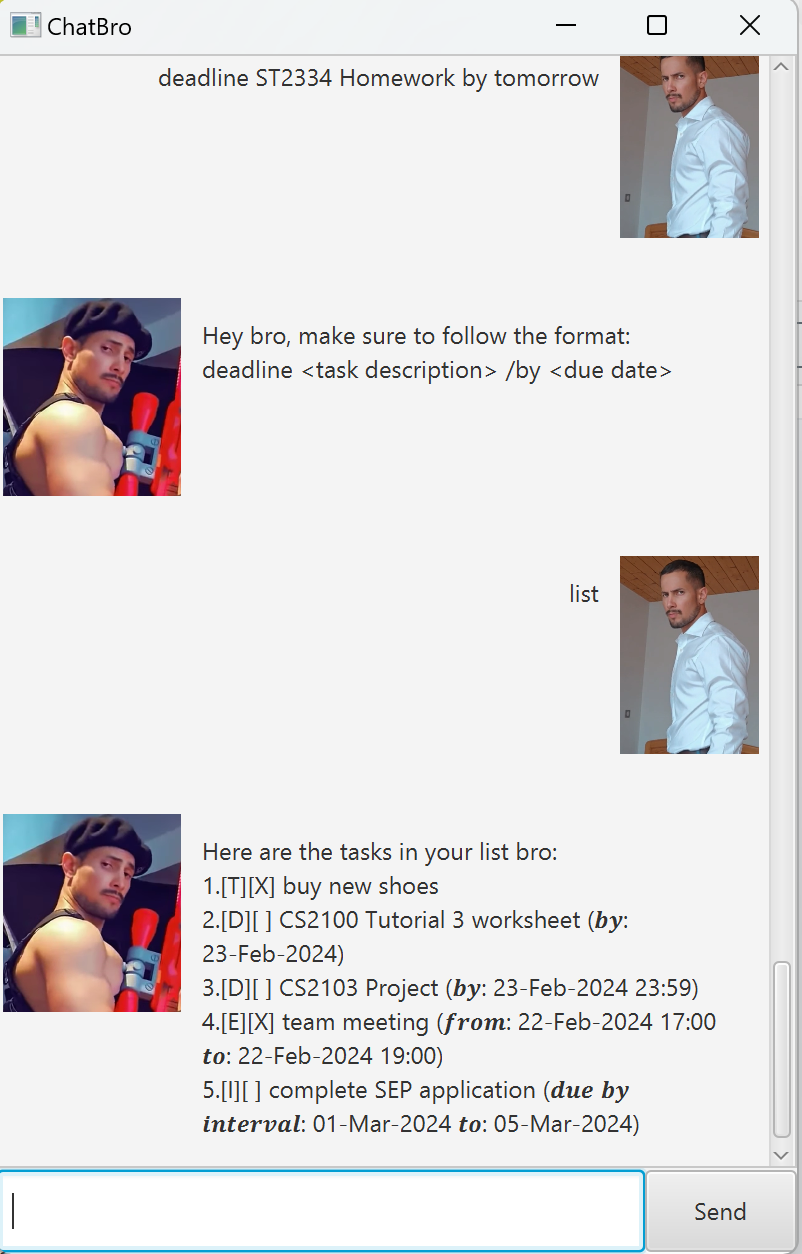
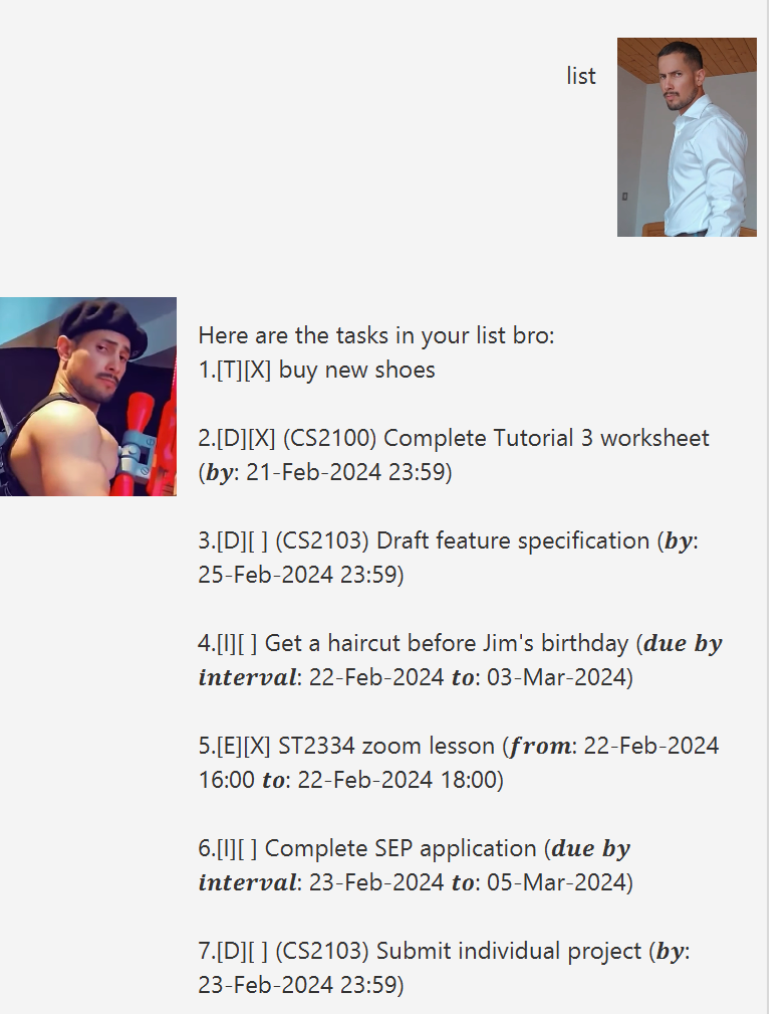
Update User Guide
Fix .jar compatability issue

Improve list and find commands for readability

Changed region(s): [[0.0, 0.0, 0.9987, 1.0], [0.0, 0.0, 0.156, 0.0306]]

diff --git a/src/main/java/chatbro/Finder.java b/src/main/java/chatbro/Finder.java
@@ -19,7 +19,7 @@ public class Finder {
                     sb.append("Here are the matching tasks in your list bro:" + "\n");
                 }
                 count++;
-                sb.append(count + ". " + TaskManager.getTask(i).toString() + "\n");
+                sb.append(count + ". " + TaskManager.getTask(i).toString() + "\n\n");
             }
         }
         if (count == 0) {

diff --git a/src/main/java/chatbro/Ui.java b/src/main/java/chatbro/Ui.java
@@ -65,7 +65,7 @@ public class Ui {
             if (TaskManager.getList().get(i) == null) {
                 break;
             }
-            sb.append(i + "." + TaskManager.getList().get(i).toString() + "\n");
+            sb.append(i + "." + TaskManager.getList().get(i).toString() + "\n\n");
         }
         return sb.toString();
     }

diff --git a/docs/README.md b/docs/README.md
@@ -1,30 +1,139 @@
-# Duke User Guide
+# ChatBro User Guide
+Tired of always forgetting to complete your tasks or deadlines? Or perhaps forgetting about and missing classes or events? ChatBro's got you, bro!
 
-// Update the title above to match the actual product name
+ChatBro is a simple to use task manager application that allows you to add tasks to a task list, mark (or unmark) these tasks as 'done', delete tasks or search for tasks. ChatBro remembers your task list across all sessions.
 
-// Product screenshot goes here
+Let ChatBro remember and handle your tasks for you!
+<p align="center">
+<img width="304" height="460" src="https://cdn.discordapp.com/attachments/523125126540165121/1210528706335084605/image.png?ex=65eae3b6&is=65d86eb6&hm=d29262b5c72377baa671bf2f791b7e6ece1815c068594a06b177e4f318e8f103&">
+</p>
 
-// Product intro goes here
+## Features:
 
-## Adding deadlines
+Click on the underlined features to jump to the respective section!
 
-// Describe the action and its outcome.
+1. [Adding Tasks](#exit): ( [To-Do](#todo)  |  [Deadline](#deadline)  |  [Interval Deadline](#interval)  |  [Event](#event))
+2. [Viewing your task list](#view-list)
+3. [Marking / Unmarking tasks as "done"](#mark)
+4. [Deleting tasks](#delete)
+5. [Searching for tasks](#search)
+6. [Exiting the program and saving tasks](#exit)
 
-// Give examples of usage
+## 1. Adding tasks
 
-Example: `keyword (optional arguments)`
+ChatBro can't help you keep track of your tasks if he doesn't know what tasks you have. You'll have to add tasks to your task list to make use of the other features!
+This section details the types of tasks you can add to your list, as well as how to do so.
 
-// A description of the expected outcome goes here
+Each task type is represented differently in your task list, but all of their representations will start with:
+`[Task type][Status] <task description>`, where "status" is `[ ]` for incomplete tasks or `[X]` for complete tasks.
 
-```
-expected output
-```
+Deadline, Interval deadline and Event tasks will require a `<date>` specifier in your input.
+For all task types, the `<date>` specifier must follow the format:
+<p align="center"> **dd-MM-yyyy HHmm** </p>
 
-## Feature ABC
+    (dd: day, MM: month, yyyy: year, HH: hours, mm: minutes)
+    HHmm is optional.
 
-// Feature details
+More details will be given in the subsections below!
 
+### 1.1 Adding To-Do task <a id="todo"></a>
 
-## Feature XYZ
+A To-Do task is a task without any associated deadline, starting time or ending time. It only has a task description.
+A todo task is represented in your list as `[T][Status] <task description>`.
 
-// Feature details
+**Command format:** `todo <task description>`
+**Example usage:** `todo buy new shoes`
+
+### 1.2 Adding Deadline task <a id="deadline"></a>
+
+A Deadline task is a task with an associated deadline. It has a `<date>` specifier `<due date>`.
+
+**Command format:** `deadline <task description> /by <due date>`
+**Example usage:** `deadline Complete Math assignment /by 10-04-2024`
+
+### 1.3 Adding Interval Deadline task <a id="interval"></a>
+
+Have a task that needs to be completed within a given time period?
+If you have a task where the deadline is an interval of time, instead of an instance of time, you may create an Interval Deadline task! It has `<date>` specifiers `<interval start date>` and `<interval end date>`.
+
+**Command format:** `interval <task description> /from <interval start date> /to <interval end date>`
+
+**Example usage:** `interval Complete IPPT /from 23-02-2024 /to 31-03-2024`
+
+### 1.4 Adding Event task <a id="event"></a>
+An event task with a starting time and ending time. Examples include meetings, classes, dinner reservations at a restaurant, etc. It has `<date>` specifiers `<start time>` and `<end time>`.
+
+**Command format:** `event <task description> /from <start time> /to <end time>`
+**Example usage:** `event Group project meeting /from 25-02-2024 1300 /to 25-02-2024 1530`
+
+## 2. Viewing your task list <a id="view-list"></a>
+
+To view your list of tasks, use the 'list' command.
+
+**Command format:** `list`
+
+ChatBro replies with a list of your tasks, including task type, status, description, and any other task information:
+<p align="center">
+<img width="304" height="460" src="https://cdn.discordapp.com/attachments/523125126540165121/1210528706335084605/image.png?ex=65eae3b6&is=65d86eb6&hm=d29262b5c72377baa671bf2f791b7e6ece1815c068594a06b177e4f318e8f103&">
+</p>
+
+## 3. Marking and unmarking tasks as "done" <a id="mark"></a>
+
+Now that we know how to view our task list, we can mark some tasks as "done"! First, you'll need to know the task number of the task to be marked, which you can find using the 'list' command. Then, type `mark <task number>` to mark the task. To unmark the task, type `unmark <task number>`. This will be reflected in the task list.
+
+For example, if the task "buy new shoes" is done but the task "(CS2100) Complete Tutorial 3 worksheet" is not done yet:
+
+<p align="center">
+<img width="350" height="223" src="https://cdn.discordapp.com/attachments/523125126540165121/1210558551366303795/image.png?ex=65eaff81&is=65d88a81&hm=6d04c475ac38d2649d046fdc37969d63f9eba37f1768a8eb5aeddb4d3231997f&">
+</p>
+
+**Command format:** `mark <task number>` or  `unmark <task number>`
+**Example usage:** `mark 3` or  `unmark 1`
+
+## 4. Deleting tasks <a id="delete"></a>
+
+You may delete tasks as well, if you've made an error in some of the task details, or if the task is completed already and you no longer need to keep a record of it. To do this, you will need the task number of the task to be deleted, which you can find using the 'list' command.
+
+**Command format:** `delete <task number>`
+**Example usage:** `delete 2`
+
+## 5. Searching for tasks <a id="search"></a>
+
+As you start adding tasks to your list, you may find that the 'list' command will result in ChatBro giving you a reply that is too long to effectively find tasks that you need to complete.
+
+In this case, you may use the 'find' command to search for tasks! ChatBro will fetch all tasks with the ***task description*** containing the given keyword and replies with a list of these tasks.
+
+**Command format:** `find <keyword>`
+**Example usage:** `find Timothy`
+
+Note that this command performs a *partial matching* of the keyword:
+(e.g. `find elo` will fetch a task with description "`Hello`", since 'Hello' contains the substring 'elo')
+
+To illustrate how 'find' can help filter the list effectively, assume we are finding all tasks related to the course "CS2103".
+
+Using 'list':
+<p align="center">
+<img width="270" height="380" src="https://cdn.discordapp.com/attachments/523125126540165121/1210543083066884186/image.png?ex=65eaf119&is=65d87c19&hm=f79bef19645c94e4df35d80f0d277abcab75856a350fa470567a6109c5cd196f&">
+</p>
+
+Using 'find':
+<p align="center">
+<img width="334" height="260" src="https://cdn.discordapp.com/attachments/523125126540165121/1210528960354717738/image.png?ex=65eae3f2&is=65d86ef2&hm=740d2902ad2fe16e69ab67090e671564a753b9a14d28517ed1c5be1525b15d5d&">
+</p>
+
+## 6. Exiting program and saving your tasks  <a id="exit"></a>
+
+When you're done using the application, you can exit the program using the simple command `bye`.
+When you execute this command, ChatBro saves all your tasks to a text file  (savedTasks.txt) and bids farewell to you, closing the application. This text file will be found in the same folder as `ChatBro.jar`.
+
+**Command format:** `bye`
+
+**NOTE: You <u>_must_</u> exit the program with `bye` for ChatBro to save your tasks. If you close the application using the X at the top right corner of the window, your tasks will NOT be saved.**
+
+If `savedTasks.txt` is in the wrong format, you will see this pop-up alert when you run ChatBro:
+<p align="center">
+  <img width="415" height="150" src="https://cdn.discordapp.com/attachments/523125126540165121/1210286867006881906/image.png?ex=65ea027b&is=65d78d7b&hm=e7a5e69c3fec31607ee979692df955c815247f9d8b45f35f7af1d44d96ab3222&">
+</p>
+
+Simply follow the instructions given and delete `savedTasks.txt`, then start ChatBro again.
+**(NOTE: Your saved task list will be *deleted*, and you will have to add your tasks in again 😔)**
